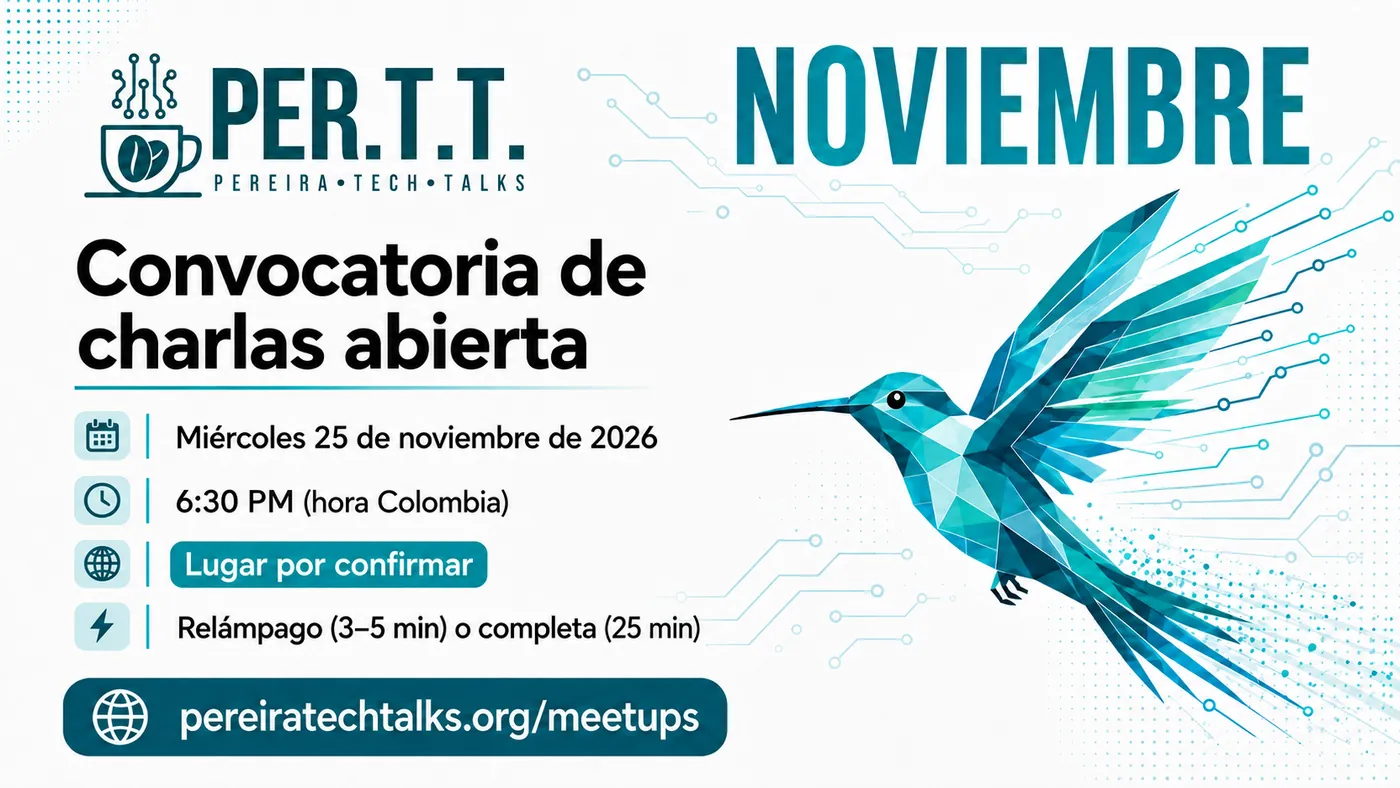
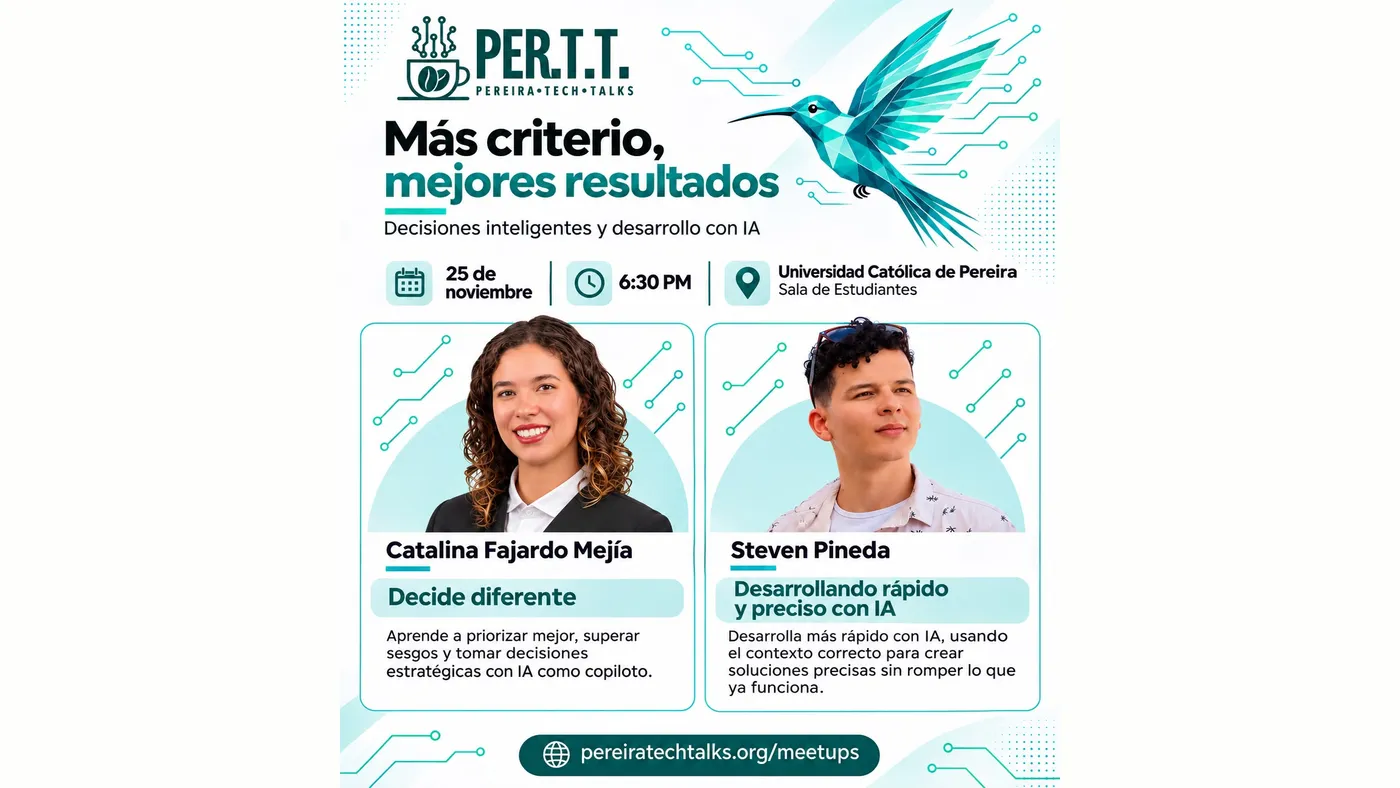
feat(meetups): publish November 2026 lineup and hero

diff --git a/src/content/meetups/2026-11-25_november-meetup-2026.md b/src/content/meetups/2026-11-25_november-meetup-2026.md
@@ -3,47 +3,65 @@ title:
   en: "November meetup"
   es: "Meetup de noviembre"
 description:
-  en: "The call for talks is open for our November meetup. Bring what you have been working on this year — as a lightning talk of 3 to 5 minutes or a full one of 25."
-  es: "La convocatoria de charlas está abierta para el meetup de noviembre. Trae eso en lo que has trabajado este año, en charla relámpago de 3 a 5 minutos o completa de 25."
+  en: "In-person meetup on Wednesday 25 November at 6:30 p.m., Universidad Católica de Pereira, with Catalina Fajardo Mejía and Steven Pineda."
+  es: "Meetup presencial el miércoles 25 de noviembre a las 6:30 p. m. en la Universidad Católica de Pereira con Catalina Fajardo Mejía y Steven Pineda."
 pubDate: 2026-11-25
 date: 2026-11-25
 dateConfidence: confirmed
+venue:
+  name: "Universidad Católica de Pereira"
+  addressLine: "Sala de Estudiantes, Avenida Sur, Las Américas, Cra. 21 #49-95"
+  city: Pereira
+  country: Colombia
+mode: in-person
 hero:
   src: "/images/meetups/november-meetup-2026/hero.webp"
-  srcEn: "/images/meetups/november-meetup-2026/hero.en.webp"
   alt:
-    es: "Flyer del meetup de noviembre de Pereira Tech Talks: convocatoria de charlas abierta, miércoles 25 de noviembre de 2026, 6:30 PM hora Colombia, lugar por confirmar, charla relámpago de 3 a 5 minutos o completa de 25"
-    en: "Pereira Tech Talks November meetup flyer: call for talks is open, Wednesday 25 November 2026, 6:30 PM Colombia time, venue to be confirmed, lightning talk of 3 to 5 minutes or full talk of 25"
+    es: "Flyer del meetup de noviembre de Pereira Tech Talks: miércoles 25 de noviembre de 2026, 6:30 p. m., Universidad Católica de Pereira, Sala de Estudiantes, con Catalina Fajardo Mejía en Decide diferente y Steven Pineda en Desarrollando rápido y preciso con IA"
+    en: "Pereira Tech Talks November meetup flyer: Wednesday 25 November 2026, 6:30 p.m., Universidad Católica de Pereira, Sala de Estudiantes, with Catalina Fajardo Mejía on Decide differently and Steven Pineda on Building fast and accurately with AI"
   layout: banner
 heroImage: "/images/meetups/november-meetup-2026/hero.webp"
 verticals:
   - monthly-meetups
 callForSpeakers:
-  status: open
+  status: closed
   formats:
     - lightning
     - regular
   closesAt: 2026-11-20
-status: announced
+talks:
+  - november-meetup-2026--1-decide-differently
+  - november-meetup-2026--2-building-fast-and-accurately-with-ai
+speakers:
+  - catalina-fajardo-mejia
+  - steven-pineda
+linkMeetupCom: https://luma.com/zi3yrnjz
+status: rsvp-open
 draft: false
 ---
 
 ## Meetup de noviembre
 
-Llega noviembre, entramos en la recta final del año y abrimos la convocatoria. Queremos una noche con muchas voces en el escenario, y para eso necesitamos la tuya: postula tu charla y ven a contarnos en qué has andado.
+El miércoles 25 de noviembre de 2026 nos vemos en persona, a las 6:30 p. m., en la **Universidad Católica de Pereira**, Sala de Estudiantes (Avenida Sur, Las Américas, Cra. 21 #49-95).
 
-A estas alturas del año ya resolviste algo que al principio no sabías cómo resolver. Puede ser la herramienta que terminaste adoptando, el problema de rendimiento que por fin entendiste, la parte del sistema que te tocó aprender a la fuerza, o algo que probaste por curiosidad y resultó mejor de lo que esperabas. Eso es exactamente lo que queremos escuchar.
+La noche se llama «Más criterio, mejores resultados»: decisiones inteligentes y desarrollo con IA.
 
-Y si crees que tu tema es demasiado pequeño para una charla, casi siempre no lo es: lo que a ti ya te parece obvio suele ser justo lo que otra persona en la sala lleva semanas buscando.
+### Charlas
 
-Tú eliges cuánto tiempo necesita: **charla relámpago de 3 a 5 minutos** para ir al grano, o **charla completa de 25 minutos** si quieres desarrollarla con calma.
+**Decide diferente**
 
-Si nunca has presentado, este es un buen momento para estrenarte: te acompañamos a armar la charla y a ensayarla antes.
+**Ponente:** Catalina Fajardo Mejía
 
-La fecha está confirmada. Todavía estamos definiendo si nos vemos en una sala o en línea, y lo anunciamos aquí en cuanto lo sepamos.
+Esta charla propone una mirada práctica y dinámica a la Matriz de Eisenhower aplicada a la gerencia de proyectos, integrando conceptos de psicología como los anclajes y los sesgos que influyen en nuestra forma de priorizar y tomar decisiones. A través de situaciones reales, exploraremos cómo la Inteligencia Artificial puede convertirse en un copiloto para analizar prioridades, identificar riesgos y dependencias, automatizar tareas y facilitar conversaciones basadas en criterios objetivos. El objetivo es pasar de una gestión reactiva a una más estratégica y preventiva, utilizando la tecnología para liberar tiempo y enfocar la atención en las actividades que realmente generan valor. Bajo la premisa «El éxito nace de la capacidad de lograr algo diferente», la charla invita a pensar, priorizar y decidir de manera diferente.
 
-¡Te esperamos!
+**Desarrollando rápido y preciso con IA**
 
-### Convocatoria
+**Ponente:** Steven Pineda
 
-Recibimos propuestas hasta el viernes 20 de noviembre, en charla relámpago o en formato completo. Elige el formato que le sirva a tu idea y postúlala.
+La IA es rápida cuando el contexto está escrito. Es imprecisa cuando el contexto vive en la cabeza o en un chat. El cuello de botella no es generar código. Es entender el negocio del cliente y no romper lo que ya existe. En esta charla les comparto mi estrategia sencilla para lograrlo.
+
+---
+
+### Fuentes
+
+- Evento original: https://luma.com/zi3yrnjz

diff --git a/src/content/meetups/2026-11-25_november-meetup-2026.en.md b/src/content/meetups/2026-11-25_november-meetup-2026.en.md
@@ -1,19 +1,25 @@
 ## November meetup
 
-November is here, we are heading into the last stretch of the year, and the call for talks is open. We want a night with many voices on stage, and for that we need yours: send us your talk and come tell us what you have been up to.
+On Wednesday 25 November 2026 we meet in person, at 6:30 p.m., at **Universidad Católica de Pereira**, Sala de Estudiantes (Avenida Sur, Las Américas, Cra. 21 #49-95).
 
-By this point in the year you have solved something you did not know how to solve when it started. It might be the tool you ended up adopting, the performance problem you finally understood, the part of the system you had to learn the hard way, or something you tried out of curiosity that turned out better than expected. That is exactly what we want to hear.
+The night is called "Sharper judgment, better results": smart decisions and building with AI.
 
-And if you think your topic is too small for a talk, it almost never is: what already feels obvious to you is usually the very thing someone else in the room has been hunting for.
+### Talks
 
-You pick how long it needs: a **lightning talk of 3 to 5 minutes** to get straight to the point, or a **full talk of 25 minutes** if you want to develop it properly.
+**Decide differently**
 
-If you have never presented before, this is a good moment to start: we will help you shape the talk and rehearse it beforehand.
+**Speaker:** Catalina Fajardo Mejía
 
-The date is confirmed. We are still deciding whether we meet in a room or online, and we will announce it here as soon as we know.
+This talk looks at the Eisenhower matrix applied to project management, together with psychology concepts such as anchors and the biases that shape how we prioritize and decide. Through real situations, it explores how artificial intelligence can become a copilot for analyzing priorities, spotting risks and dependencies, automating tasks, and holding conversations on objective criteria. The aim is to move from reactive management to a more strategic, preventive one, using technology to free up time and put attention on the work that actually creates value. Under the premise "Success comes from the ability to achieve something different," the talk invites us to think, prioritize, and decide differently.
 
-See you there!
+**Building fast and accurately with AI**
 
-### Call for speakers
+**Speaker:** Steven Pineda
 
-We are taking proposals until Friday 20 November, as a lightning talk or in the full format. Pick whichever length serves your idea and send it in.
+AI is fast when the context is written down. It is inaccurate when the context lives in someone's head or in a chat. The bottleneck is not generating code. It is understanding the client's business and not breaking what already works. In this talk I share a simple strategy for doing that.
+
+---
+
+### Sources
+
+- Original event: https://luma.com/zi3yrnjz

diff --git a/src/content/talks/november-meetup-2026--1-decide-differently.md b/src/content/talks/november-meetup-2026--1-decide-differently.md
@@ -1,0 +1,48 @@
+---
+title:
+  en: "Decide differently"
+  es: "Decide diferente"
+abstract:
+  en: >-
+    This talk looks at the Eisenhower matrix applied to project management,
+    together with psychology concepts such as anchors and the biases that
+    shape how we prioritize and decide. Through real situations, it explores
+    how artificial intelligence can become a copilot for analyzing priorities,
+    spotting risks and dependencies, automating tasks, and holding
+    conversations on objective criteria. The aim is to move from reactive
+    management to a more strategic, preventive one, using technology to free
+    up time and put attention on the work that actually creates value. Under
+    the premise "Success comes from the ability to achieve something
+    different," the talk invites us to think, prioritize, and decide
+    differently.
+  es: >-
+    Esta charla propone una mirada práctica y dinámica a la Matriz de
+    Eisenhower aplicada a la gerencia de proyectos, integrando conceptos de
+    psicología como los anclajes y los sesgos que influyen en nuestra forma de
+    priorizar y tomar decisiones. A través de situaciones reales, exploraremos
+    cómo la Inteligencia Artificial puede convertirse en un copiloto para
+    analizar prioridades, identificar riesgos y dependencias, automatizar
+    tareas y facilitar conversaciones basadas en criterios objetivos. El
+    objetivo es pasar de una gestión reactiva a una más estratégica y
+    preventiva, utilizando la tecnología para liberar tiempo y enfocar la
+    atención en las actividades que realmente generan valor. Bajo la premisa
+    «El éxito nace de la capacidad de lograr algo diferente», la charla invita
+    a pensar, priorizar y decidir de manera diferente.
+speakers:
+  - catalina-fajardo-mejia
+date: 2026-11-25
+event:
+  collection: meetups
+  slug: november-meetup-2026
+language: es
+duration: 25
+type: talk
+tags:
+  - ai
+  - community
+status: scheduled
+---
+
+## Decide diferente
+
+Esta charla propone una mirada práctica y dinámica a la Matriz de Eisenhower aplicada a la gerencia de proyectos, integrando conceptos de psicología como los anclajes y los sesgos que influyen en nuestra forma de priorizar y tomar decisiones. A través de situaciones reales, exploraremos cómo la Inteligencia Artificial puede convertirse en un copiloto para analizar prioridades, identificar riesgos y dependencias, automatizar tareas y facilitar conversaciones basadas en criterios objetivos. El objetivo es pasar de una gestión reactiva a una más estratégica y preventiva, utilizando la tecnología para liberar tiempo y enfocar la atención en las actividades que realmente generan valor. Bajo la premisa «El éxito nace de la capacidad de lograr algo diferente», la charla invita a pensar, priorizar y decidir de manera diferente.

diff --git a/src/content/talks/november-meetup-2026--2-building-fast-and-accurately-with-ai.md b/src/content/talks/november-meetup-2026--2-building-fast-and-accurately-with-ai.md
@@ -1,0 +1,34 @@
+---
+title:
+  en: "Building fast and accurately with AI"
+  es: "Desarrollando rápido y preciso con IA"
+abstract:
+  en: >-
+    AI is fast when the context is written down. It is inaccurate when the
+    context lives in someone's head or in a chat. The bottleneck is not
+    generating code. It is understanding the client's business and not
+    breaking what already works. In this talk I share a simple strategy for
+    doing that.
+  es: >-
+    La IA es rápida cuando el contexto está escrito. Es imprecisa cuando el
+    contexto vive en la cabeza o en un chat. El cuello de botella no es
+    generar código. Es entender el negocio del cliente y no romper lo que ya
+    existe. En esta charla les comparto mi estrategia sencilla para lograrlo.
+speakers:
+  - steven-pineda
+date: 2026-11-25
+event:
+  collection: meetups
+  slug: november-meetup-2026
+language: es
+duration: 25
+type: talk
+tags:
+  - ai
+  - community
+status: scheduled
+---
+
+## Desarrollando rápido y preciso con IA
+
+La IA es rápida cuando el contexto está escrito. Es imprecisa cuando el contexto vive en la cabeza o en un chat. El cuello de botella no es generar código. Es entender el negocio del cliente y no romper lo que ya existe. En esta charla les comparto mi estrategia sencilla para lograrlo.
